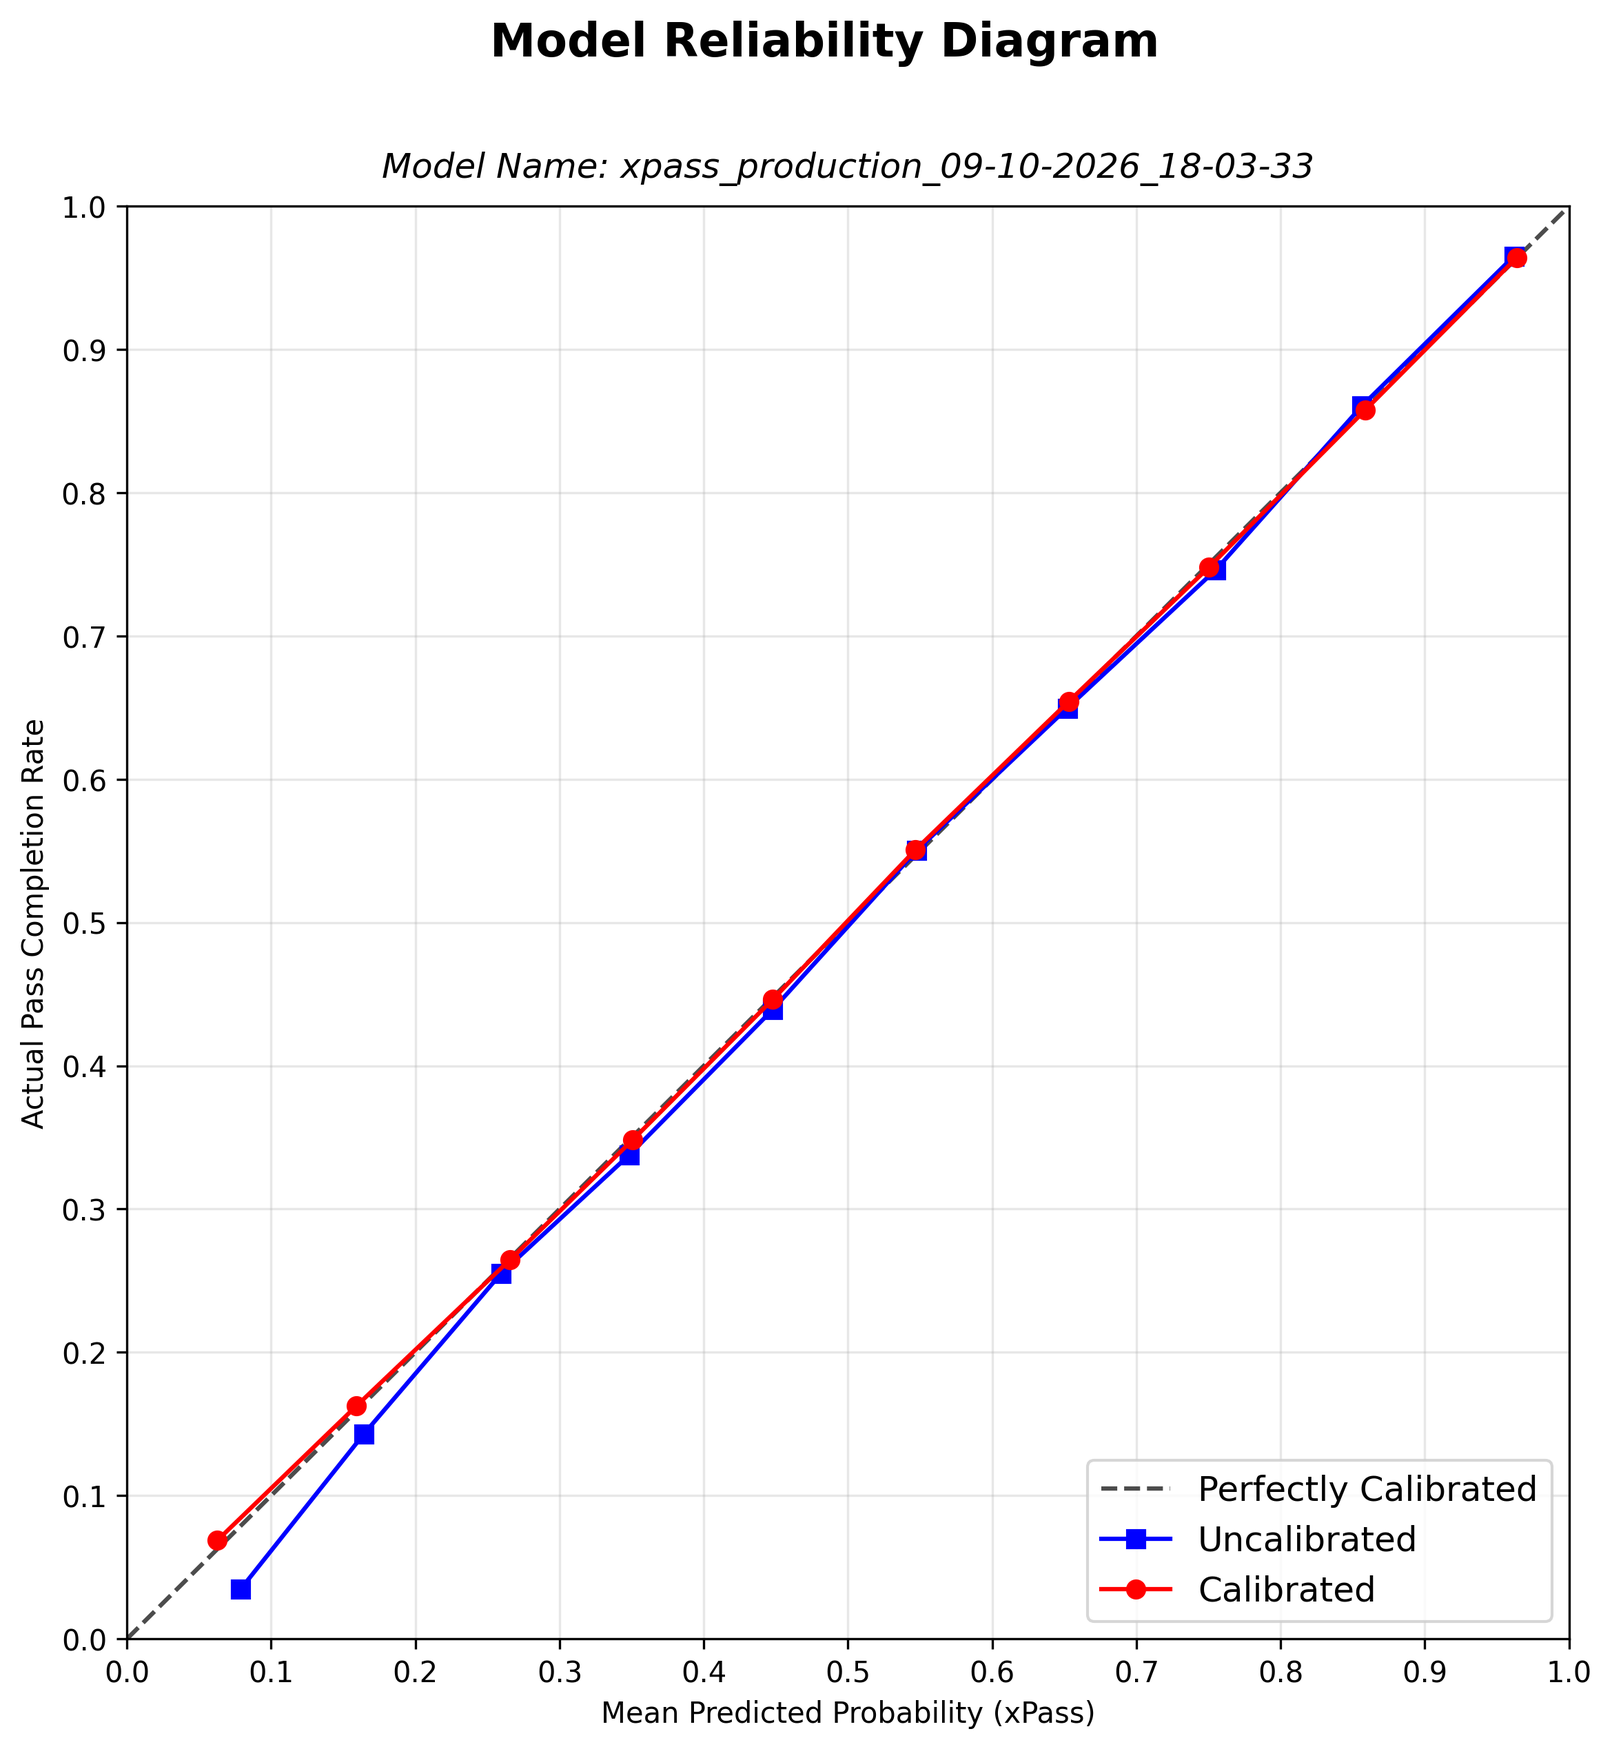
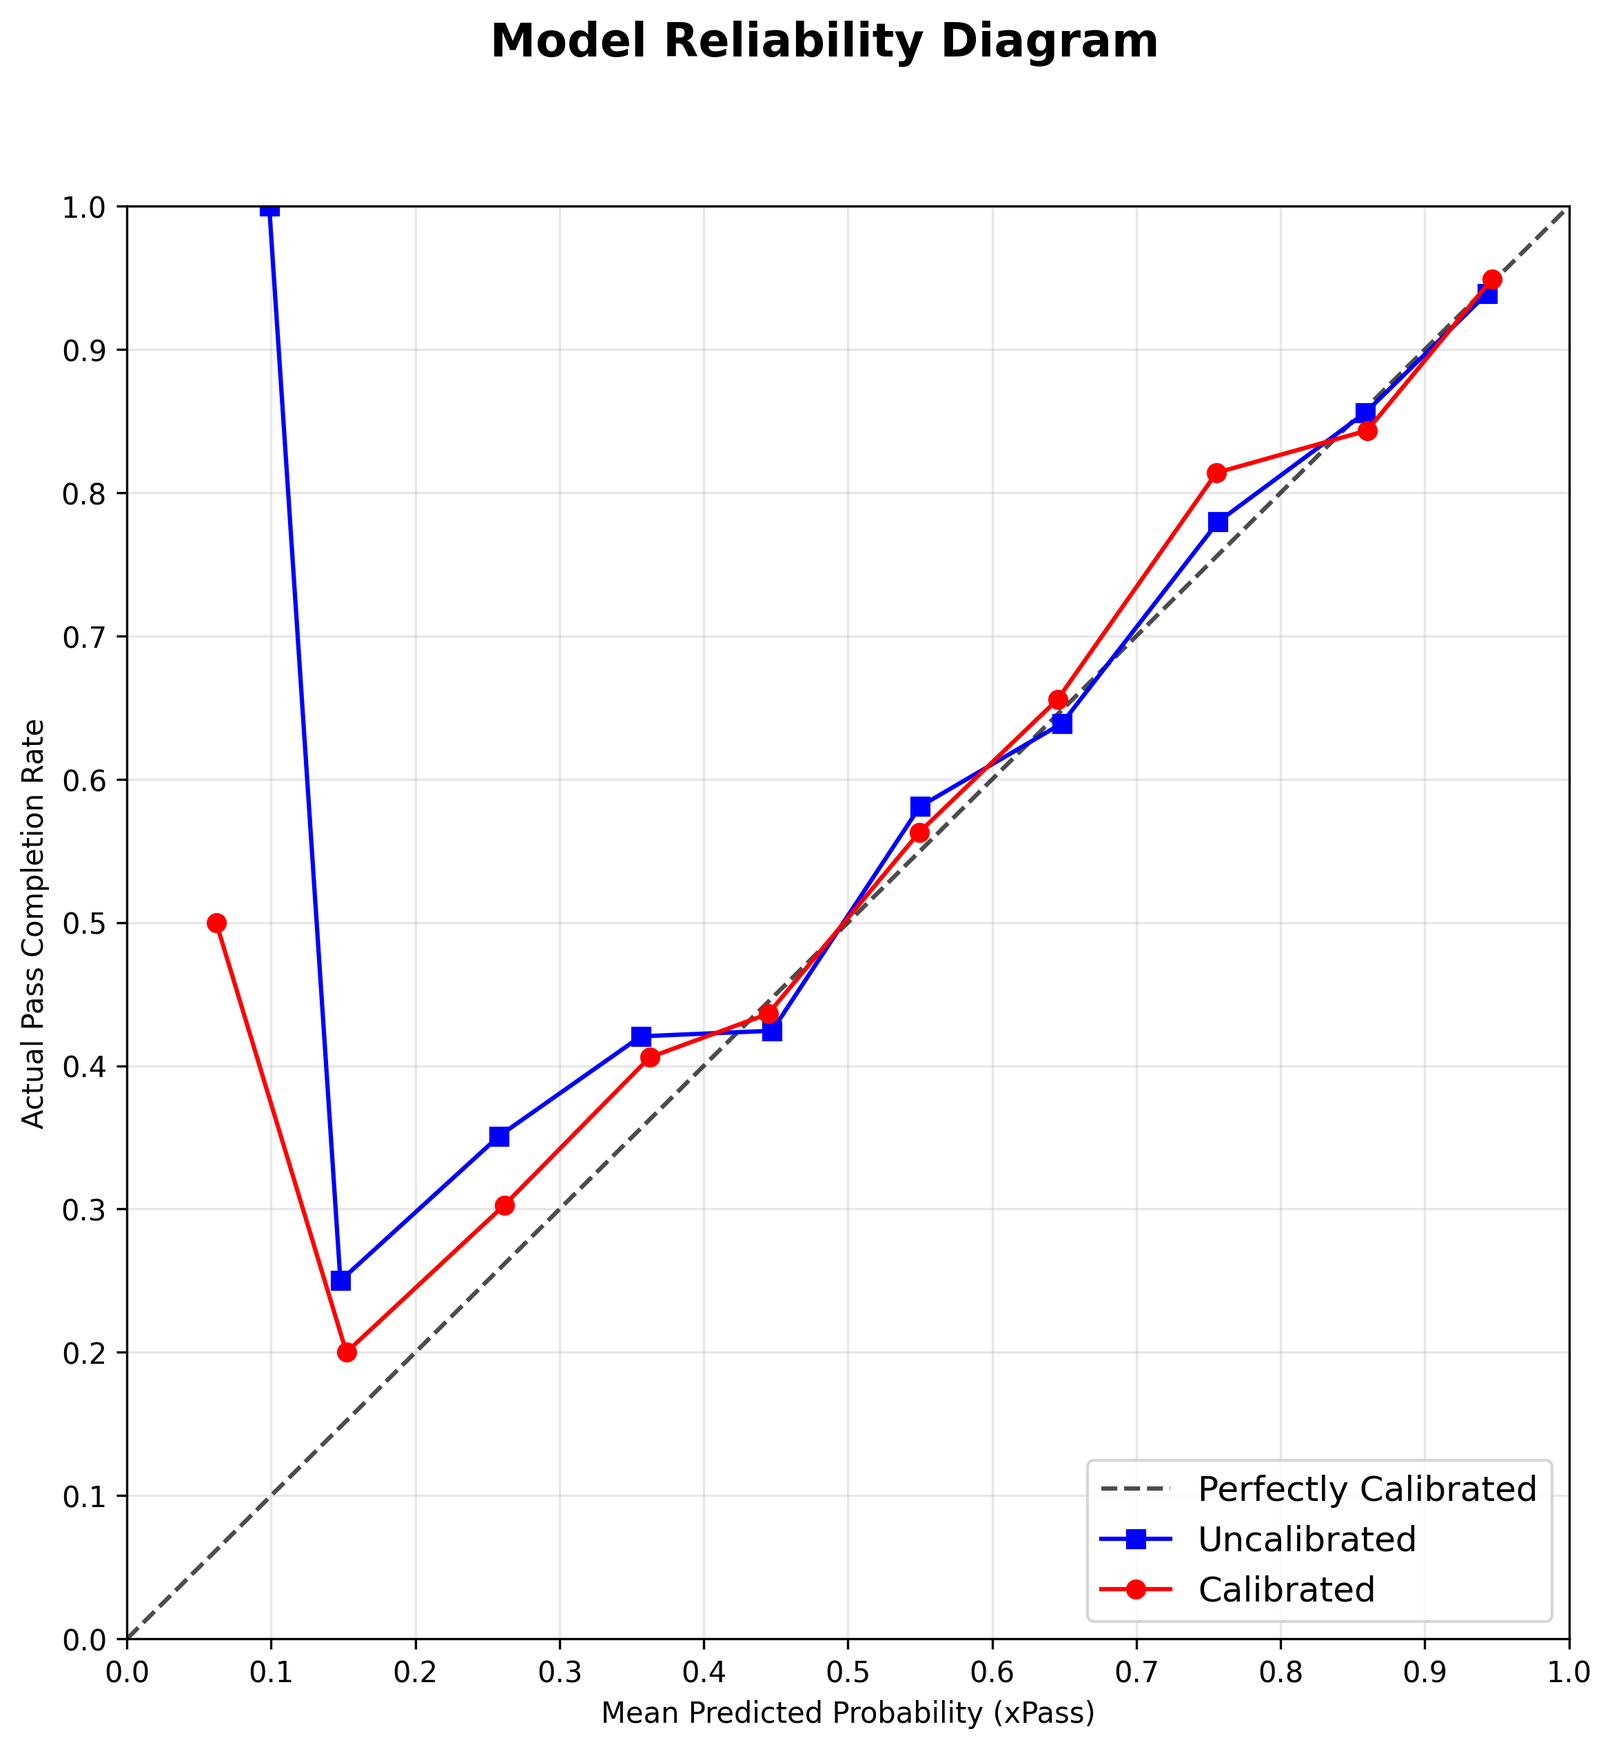
Remove outcome leakage: angle_to_goal feature and match-grouped split
- Replace pass_angle (derived from the pass end location) with angle_to_goal,
  computed from start_x/start_y only, so the model can score passes live.
- Split train/test with GroupShuffleSplit by match_id and calibrate with
  GroupKFold over the training matches; assert train/test matches are disjoint.
- Save feature_list.json next to the model; add split type and deployed model
  type to the metrics report.
- Drop the model-name subtitle from the SHAP and reliability diagrams.
- Add tests/test_features.py leakage checks.
- Update README results and figures from a 1. Bundesliga 2015/2016 check run.

diff --git a/src/model_training_pipeline.py b/src/model_training_pipeline.py
@@ -2,10 +2,11 @@
 Training, evaluation and diagnostics for the xPass (expected pass completion) model.
 
 The model is an XGBoost classifier that predicts the probability that a pass is completed.
-Two versions are trained on the same 85% training split:
+Two versions are trained on the same 85% training split. The split is grouped by match,
+so no match has passes in both the training and the test set:
 
     raw          XGBoost on its own
-    calibrated   XGBoost wrapped in 5-fold, isotonic CalibratedClassifierCV, which
+    calibrated   XGBoost wrapped in 5-fold (grouped by match), isotonic CalibratedClassifierCV, which
                  adjusts the probabilities so that, say, passes given 0.8 are
                  completed about 80% of the time
 
@@ -14,6 +15,7 @@ saved. The diagnostics (reliability diagram and SHAP summary) go in a reports/ f
 next to the model.
 """
 import os
+import json
 import glob
 import sys
 import joblib
@@ -22,7 +24,7 @@ import numpy as np
 import matplotlib.pyplot as plt
 from xgboost import XGBClassifier
 from sklearn.calibration import CalibratedClassifierCV, calibration_curve
-from sklearn.model_selection import train_test_split
+from sklearn.model_selection import GroupShuffleSplit, GroupKFold
 from sklearn.metrics import log_loss, brier_score_loss, roc_auc_score, accuracy_score
 
 from src.features import FEAT_TRUEBEST
@@ -46,6 +48,7 @@ def save_metrics_report(
         final_brier: float,
         final_rocauc: float,
         final_testaccuracy: float,
+        split_type: str,
         features: list = FEAT_TRUEBEST
 ):
     """
@@ -61,6 +64,8 @@ def save_metrics_report(
         "="*50,
         "", "",
         f"Features used: {features}",
+        f"Train/test split: {split_type}",
+        f"Deployed model type: {'calibrated' if is_calibrated_deployed else 'raw'}",
         "", "",
         "---Uncalibrated Baseline---",
         f"Test Accuracy: {raw_testaccuracy:.4f}",
@@ -68,7 +73,7 @@ def save_metrics_report(
         f"Brier Score: {raw_brier:.4f}",
         f"ROC AUC: {raw_rocauc:.4f}",
         "",
-        "---Calibrated (Isotonic, 5-Fold CV)---",
+        "---Calibrated (Isotonic, 5-Fold GroupKFold CV by match_id)---",
         f"Test Accuracy: {cal_testaccuracy:.4f}",
         f"Log-Loss: {cal_logloss:.4f}",
         f"Brier Score: {cal_brier:.4f}",
@@ -127,14 +132,6 @@ def fig_reliability_diagram(raw_cal_curve, cal_cal_curve, model_name, models_dir
         color = 'black',
         fontsize = 16,
         fontweight = 'bold'
-    )
-    ax.set_title(
-        f"Model Name: {model_name}",
-        color = 'black',
-        loc = 'center',
-        style = 'italic',
-        fontsize = 12,
-        pad = 10
     )
     ax.legend(loc = 'lower right', fontsize = 12)
 
@@ -252,7 +249,7 @@ def fig_shap_diagram(base_model: XGBClassifier, models_dir: str, X_sample: pd.Da
         "start_x": "Start Position (X)",
         "start_y": "Start Position (Y)",
         "dist_to_goal": "Distance to Goal",
-        "pass_angle": "Pass Angle",
+        "angle_to_goal": "Angle to Goal",
         "under_pressure": "Under Pressure",
         "period": "Match Period",
         "half_percentage": "Time in Half (%)",
@@ -296,15 +293,6 @@ def fig_shap_diagram(base_model: XGBClassifier, models_dir: str, X_sample: pd.Da
         y = 1.03
     )
 
-    plt.title(
-        f"Model Name: {model_name}",
-        color = 'black',
-        loc = 'center',
-        style = 'italic',
-        fontsize = 12,
-        pad = 10
-    )
-
     fig_name = "shap_diagram_" + model_name + ".png"
     fig_dir = os.path.join(models_dir, "reports", fig_name)
     os.makedirs(os.path.dirname(fig_dir), exist_ok = True)
@@ -319,6 +307,24 @@ def fig_shap_diagram(base_model: XGBClassifier, models_dir: str, X_sample: pd.Da
 
 
 # --- Training ---
+
+SPLIT_TYPE = "GroupShuffleSplit by match_id (test_size=0.15, random_state=42)"
+
+
+def grouped_train_test_split(df: pd.DataFrame, test_size: float = 0.15, random_state: int = 42):
+    """
+    Splits df into (train, test) row positions so that every match lands entirely in one
+    side. A random split by pass would put passes from the same match in both sets.
+    """
+    splitter = GroupShuffleSplit(n_splits=1, test_size=test_size, random_state=random_state)
+    train_idx, test_idx = next(splitter.split(df, groups=df['match_id']))
+
+    train_matches = set(df['match_id'].iloc[train_idx])
+    test_matches = set(df['match_id'].iloc[test_idx])
+    assert train_matches.isdisjoint(test_matches), "A match_id appears in both train and test"
+
+    return train_idx, test_idx
+
 
 def run_model_training(df: pd.DataFrame, model_name: str = 'xgb_model_draft', models_dir: str = "./models", 
                        force_calibration: bool = False, features: list = FEAT_TRUEBEST, run_diagnostics: bool = True):
@@ -336,11 +342,12 @@ def run_model_training(df: pd.DataFrame, model_name: str = 'xgb_model_draft', mo
     X = df[features]
     y = df['pass_outcome']
 
-    # Hold out 15% for testing. Stratifying keeps the completed / failed ratio the same in
-    # both splits, and the fixed random_state makes runs reproducible.
-    X_train, X_test, y_train, y_test = train_test_split(
-        X, y, test_size=0.15, random_state=42, stratify=y
-    )
+    # Hold out about 15% of the matches for testing. Whole matches go to one side, so the
+    # test set only contains games the model has never seen. random_state makes runs reproducible.
+    train_idx, test_idx = grouped_train_test_split(df, test_size=0.15, random_state=42)
+    X_train, X_test = X.iloc[train_idx], X.iloc[test_idx]
+    y_train, y_test = y.iloc[train_idx], y.iloc[test_idx]
+    groups_train = df['match_id'].iloc[train_idx]
 
     console.listing(features, "Features")
 
@@ -362,8 +369,8 @@ def run_model_training(df: pd.DataFrame, model_name: str = 'xgb_model_draft', mo
 
 
     # 2. Calibrated model: identical XGBoost settings, wrapped in 5-fold isotonic calibration.
-    #    Each fold trains on 4/5 of the training data and fits the calibration on the remaining
-    #    1/5, so the calibration never sees passes its model was trained on.
+    #    Each fold trains on 4/5 of the training matches and fits the calibration on the
+    #    remaining 1/5, so the calibration never sees matches its model was trained on.
     console.info("Training 5-fold cross-validated calibrated model (isotonic)...")
 
     xgb_base_for_cal = XGBClassifier(
@@ -380,7 +387,7 @@ def run_model_training(df: pd.DataFrame, model_name: str = 'xgb_model_draft', mo
     calibrated_model = CalibratedClassifierCV(
         estimator = xgb_base_for_cal,
         method = 'isotonic',
-        cv = 5
+        cv = list(GroupKFold(n_splits=5).split(X_train, y_train, groups=groups_train))
     )
 
     calibrated_model.fit(X_train, y_train)
@@ -417,6 +424,12 @@ def run_model_training(df: pd.DataFrame, model_name: str = 'xgb_model_draft', mo
     # 4. Keep the calibrated model only if it has a strictly lower test log-loss (or is forced)
     os.makedirs(models_dir, exist_ok=True)
     artifact_path = os.path.join(models_dir, model_name + '.joblib')
+
+    # The exact feature columns, in order, that the saved model expects
+    feature_list_path = os.path.join(models_dir, 'feature_list.json')
+    with open(feature_list_path, 'w') as f:
+        json.dump(list(features), f, indent=2)
+    console.success(f"Saved feature list: {os.path.basename(feature_list_path)}")
 
     if cal_logloss < raw_logloss or force_calibration:
         console.section("Deployment decision")
@@ -466,6 +479,8 @@ def run_model_training(df: pd.DataFrame, model_name: str = 'xgb_model_draft', mo
         final_brier=final_brier,
         final_rocauc=final_rocauc,
         final_testaccuracy=final_testaccuracy,
+        split_type=SPLIT_TYPE,
+        features=features,
     )
 
 

diff --git a/src/data_analysis_pipeline.py b/src/data_analysis_pipeline.py
@@ -9,6 +9,10 @@ import os
 import pandas as pd
 import numpy as np
 
+def angle_to_goal(start_x, start_y):
+    """Angle (radians) of the vector from the pass start point to the goal centre (120, 40)."""
+    return np.arctan2(40 - start_y, 120 - start_x)
+
 def process_match_json(file_path):
     """
     Reads a single StatsBomb match file and returns its passes as a DataFrame.
@@ -122,6 +126,9 @@ def process_match_json(file_path):
     # Straight-line distance from where the pass starts to the centre of the opponent's goal at (120, 40)
     df_pass['dist_to_goal'] = np.sqrt((120 - df_pass['start_x'])**2 + (40 - df_pass['start_y'])**2)
 
+    # Direction from the start point to the goal; unlike pass_angle it doesn't depend on where the pass ended
+    df_pass['angle_to_goal'] = angle_to_goal(df_pass['start_x'], df_pass['start_y'])
+
     # --- Progressive passes ---
     # Based on Wyscout's definition, where a pass is progressive if it moves the ball at least
     #   30 m closer to goal when it starts and ends in the team's own half,
@@ -191,7 +198,7 @@ def process_match_json(file_path):
     feature_cols = [
         'period', 'half_percentage', 'net_score', 'under_pressure',
         'start_x', 'start_y', 'end_x', 'end_y',
-        'pass_angle', 'pass_length', 'dist_to_goal',
+        'pass_angle', 'pass_length', 'dist_to_goal', 'angle_to_goal',
         'is_progressive',
         'height_Low Pass', 'height_High Pass',
         'body_part_Foot', 'body_part_Head', 'body_part_Keeper Arm',

diff --git a/tests/test_features.py b/tests/test_features.py
@@ -1,0 +1,39 @@
+"""
+Leakage checks for the xPass model: features must only use start-of-pass information,
+and the train/test split must keep each match on one side.
+"""
+import numpy as np
+import pandas as pd
+
+from src.data_analysis_pipeline import angle_to_goal
+from src.features import FEAT_TRUEBEST
+from src.model_training_pipeline import grouped_train_test_split
+
+
+def test_angle_to_goal_needs_no_end_location():
+    df = pd.DataFrame({'start_x': [60.0, 120.0, 100.0], 'start_y': [40.0, 0.0, 60.0]})
+
+    angles = angle_to_goal(df['start_x'], df['start_y'])
+
+    assert 'end_x' not in df.columns and 'end_y' not in df.columns
+    np.testing.assert_allclose(angles, [0.0, np.pi / 2, np.arctan2(-20, 20)])
+
+
+def test_no_end_of_pass_features():
+    leaky = {'pass_angle', 'pass_length', 'end_x', 'end_y'}
+    assert leaky.isdisjoint(FEAT_TRUEBEST)
+
+
+def test_split_is_disjoint_by_match_id():
+    df = pd.DataFrame({
+        'match_id': np.repeat(np.arange(20), 10),
+        'pass_outcome': np.tile([0, 1], 100),
+    })
+
+    train_idx, test_idx = grouped_train_test_split(df, test_size=0.15, random_state=42)
+
+    train_matches = set(df['match_id'].iloc[train_idx])
+    test_matches = set(df['match_id'].iloc[test_idx])
+    assert test_matches
+    assert train_matches.isdisjoint(test_matches)
+    assert len(train_idx) + len(test_idx) == len(df)

diff --git a/run_files/run_model.py b/run_files/run_model.py
@@ -9,6 +9,7 @@ Every run gets its own timestamped folder, so earlier models are never overwritt
 
     models/final/model_<timestamp>/
         xpass_production_<timestamp>.joblib     the trained model
+        feature_list.json                       the feature columns, in order, the model expects
         reports/                                metrics report, reliability and SHAP diagrams
 
 Usage:

diff --git a/src/features.py b/src/features.py
@@ -9,7 +9,7 @@ body part or play pattern without its own column (e.g. "From Counter") for the o
 FEAT_TRUEBEST = [
     'start_x',
     'start_y',
-    'pass_angle',
+    'angle_to_goal',
     'dist_to_goal',
     'height_Low Pass',
     'height_High Pass',

diff --git a/README.md b/README.md
@@ -1,16 +1,20 @@
 # xPass: Expected Pass Completion
 
-xPass is an expected pass-completion model. It gives every pass a probability of being completed (xP), based on where the pass starts, its angle, its distance to goal, its height, the body part used, the play pattern and whether the passer is under pressure. Those per-pass scores are then added up for each player and each team as **Pass Value Added (PVA)**, which is the actual outcome (1 = completed, 0 = failed) minus xP, and **Completion Percentage Over Expected (CPOE)**, which is the actual completion rate minus the expected completion rate. A player who completes difficult passes builds up positive PVA and CPOE. A player who misses easy ones builds up negative values.
+xPass is an expected pass-completion model. It gives every pass a probability of being completed (xP), based on where the pass starts, its angle and distance to goal, its height, the body part used, the play pattern and whether the passer is under pressure. Those per-pass scores are then added up for each player and each team as **Pass Value Added (PVA)**, which is the actual outcome (1 = completed, 0 = failed) minus xP, and **Completion Percentage Over Expected (CPOE)**, which is the actual completion rate minus the expected completion rate. A player who completes difficult passes builds up positive PVA and CPOE. A player who misses easy ones builds up negative values.
 
 ## Results
 
-The model is an XGBoost classifier with isotonic calibration. It was trained on **3,836,550 passes** from **3,961 StatsBomb match files** and scored on a held-out test set.
+These results come from a check run on **1. Bundesliga 2015/2016** (**30,934 passes**, **34 matches**). The test set is about 15% of the matches (6 matches, 5,614 passes), split by `match_id` so no match appears in both training and test. The scores below are for the **raw XGBoost** model, which was deployed because its test log-loss (0.4676) was lower than the calibrated model's (0.4677).
 
-| Metric   | Hold-out score (random 85/15 split by pass) |
-|----------|---------------------------------------------|
-| ROC AUC  | 0.8748                                      |
-| Log-loss | 0.3543                                      |
-| Brier    | 0.1118                                      |
+| Metric   | Hold-out score (85/15 split by match) |
+|----------|---------------------------------------|
+| ROC AUC  | 0.7998                                |
+| Log-loss | 0.4676                                |
+| Brier    | 0.1536                                |
+| Accuracy | 0.7720                                |
+
+`pass_angle` was removed from the features because StatsBomb derives it from the pass end location, so it leaked the outcome.
+It was replaced by `angle_to_goal`, which only uses the start location, so the model can score a pass before it is played.
 
 Read these numbers together with the [Limitations](#limitations) below.
 
@@ -30,8 +34,6 @@ Read these numbers together with the [Limitations](#limitations) below.
 
 ## Limitations
 
-- **The test split is by pass, not by match.** The 85/15 hold-out is a random, stratified split of individual passes. Passes from the same match, and the same team and players, therefore appear in both the training set and the test set. A split by match (or by season) would give a stricter estimate of performance on unseen games.
-- **`pass_angle` partly encodes the outcome for out-of-play passes.** The angle is taken from StatsBomb's pass data, which is derived from `end_location`. For a pass that goes out of play, `end_location` records where the ball went, not where the intended receiver was. For those passes the feature carries some information about the result.
 - **`is_progressive` is an approximation.** It is computed only from the pass length and whether the pass starts and ends in the own half or the opponent's half, and not from distance gained towards goal. It is part of the processed dataset but is not one of the model's features.
 - **Player and team PVA/CPOE are mostly in-sample.** The pipeline scores the same dataset the model was trained on, so about 85% of the passes behind PVA, CPOE, the leaderboard and the pass map were seen during training. This pulls completions and misses slightly towards what the model expected, so PVA and CPOE sit a little closer to zero than truly out-of-sample values would. The effect is larger on small, single-season runs. To score unseen passes, point step 4 at a different dataset with `--dataset`.
 
@@ -43,7 +45,7 @@ The model uses the following 17 features, defined in [`src/features.py`](src/fea
 |---|---------|-------|
 | 1 | `start_x` | Location |
 | 2 | `start_y` | Location |
-| 3 | `pass_angle` | Geometry |
+| 3 | `angle_to_goal` | Geometry |
 | 4 | `dist_to_goal` | Geometry |
 | 5 | `height_Low Pass` | Pass height |
 | 6 | `height_High Pass` | Pass height |
